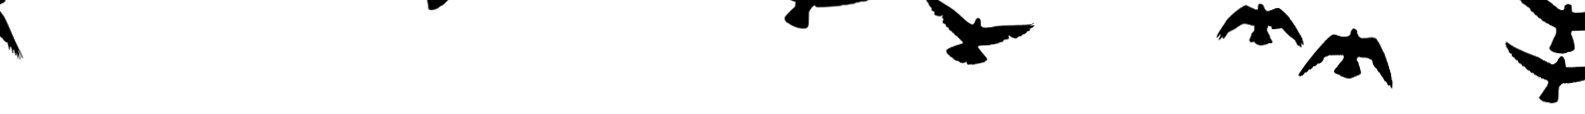
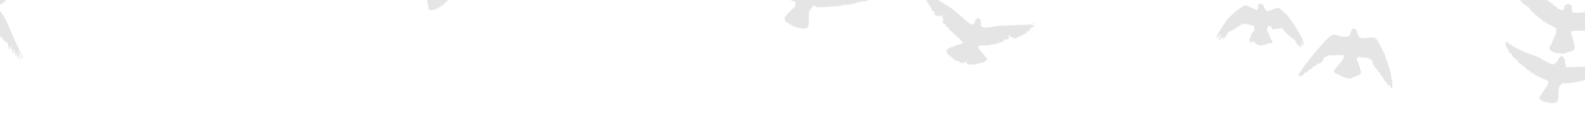
backgrounds

diff --git a/src/app/pages/attractions/attractions.component.html b/src/app/pages/attractions/attractions.component.html
@@ -1,37 +1,39 @@
-<div class="attractions-container sm:col-11 md:col-11 lg:col-10 xl:col-9 mx-auto px-2">
-    <div class="search">
-        <div class="bar flex align-content-center">
-            <input #search class="input flex-grow-1" type="search" (search)="searchAttraction(search.value)" matInput placeholder="Поиск">
-            <button (click)="searchAttraction(search.value)" class="icon-btn ml-1" color="primary"><mat-icon>search</mat-icon></button>
-            <button (click)="addAttraction()" *ngIf="isLoggedIn" class="icon-btn ml-1" color="primary"><mat-icon>add</mat-icon></button>
-        </div>
-        <div class="filters lg:text-xl text-sm">
-            <span>Сортировать:</span>
-            <mat-radio-group [(ngModel)]="sorted" (change)="load()" aria-label="Select an option">
-                <mat-radio-button [value]="0">по дате добавления</mat-radio-button>
-                <mat-radio-button [value]="1">по названию</mat-radio-button>
-            </mat-radio-group>
-            <mat-checkbox *ngIf="isLoggedIn" (change)="filter = !filter; load()" [checked]="filter" class="filter">показать только мои</mat-checkbox>
-        </div>
-    </div>
-    <div class="attractions mb-4 xl:mb-6">
-        <div class="item mb-2 xl:mb-3 h-8rem lg:h-15rem" *ngFor="let item of attractions" [ngStyle]="{background: 'url(' + item.images[0]?.url+ ')'}">
-            <div class="info">
-                <div class="text p-2 mb-2 xl:mb-3">
-                    <span class="name lg:text-2xl text-sm">
-                        {{item.title}}
-                    </span>
-                    <br>
-                    <span class="date lg:text-base text-xs ">
-                        Дата добавления: {{item.created_at | date:"d.MM.y"}}
-                    </span>
-                </div>
-                <button (click)="goToDetails(item.id)" class="details-button underlined" type="button" mat-stroked-button>Подробнее</button>
+<div class="attractions-bg" [ngStyle]="{background: 'url(../../assets/trees-search.png) no-repeat'}">
+    <div class="attractions-container sm:col-11 md:col-11 lg:col-10 xl:col-9 mx-auto px-2">
+        <div class="search">
+            <div class="bar flex align-content-center">
+                <input #search class="input flex-grow-1" type="search" (search)="searchAttraction(search.value)" matInput placeholder="Поиск">
+                <button (click)="searchAttraction(search.value)" class="icon-btn ml-1" color="primary"><mat-icon>search</mat-icon></button>
+                <button (click)="addAttraction()" *ngIf="isLoggedIn" class="icon-btn ml-1" color="primary"><mat-icon>add</mat-icon></button>
             </div>
-
+            <div class="filters lg:text-xl text-sm">
+                <span>Сортировать:</span>
+                <mat-radio-group [(ngModel)]="sorted" (change)="load()" aria-label="Select an option">
+                    <mat-radio-button [value]="0">по дате добавления</mat-radio-button>
+                    <mat-radio-button [value]="1">по названию</mat-radio-button>
+                </mat-radio-group>
+                <mat-checkbox *ngIf="isLoggedIn" (change)="filter = !filter; load()" [checked]="filter" class="filter">показать только мои</mat-checkbox>
+            </div>
         </div>
-        <div class="pagination">    
-            <p-paginator [rows]="meta.per_page" [totalRecords]="meta.total" [pageLinkSize]="5" (onPageChange)="paginate($event)"></p-paginator>
+        <div class="attractions mb-4 xl:mb-6">
+            <div class="item mb-2 xl:mb-3 h-8rem lg:h-15rem" *ngFor="let item of attractions" [ngStyle]="{background: 'url(' + item.images[0]?.url+ ')'}">
+                <div class="info">
+                    <div class="text p-2 mb-2 xl:mb-3">
+                        <span class="name lg:text-2xl text-sm">
+                            {{item.title}}
+                        </span>
+                        <br>
+                        <span class="date lg:text-base text-xs ">
+                            Дата добавления: {{item.created_at | date:"d.MM.y"}}
+                        </span>
+                    </div>
+                    <button (click)="goToDetails(item.id)" class="details-button underlined" type="button" mat-stroked-button>Подробнее</button>
+                </div>
+    
+            </div>
+            <div class="pagination">    
+                <p-paginator [rows]="meta.per_page" [totalRecords]="meta.total" [pageLinkSize]="5" (onPageChange)="paginate($event)"></p-paginator>
+            </div>
         </div>
     </div>
 </div>

diff --git a/src/app/pages/main/main.component.html b/src/app/pages/main/main.component.html
@@ -1,17 +1,19 @@
-<div class="main-container  sm:col-11 md:col-11 lg:col-10 xl:col-9 mx-auto px-2">
-    <div class="map-container">
-        <ymap></ymap>
-    </div>
-    
-    <div class="search-container">
-        <div class="lg:text-4xl md:text-3xl font-semibold">
-            Ищете что-то конкретное?
+<div class="app-main" [ngStyle]="{background: 'url(../../assets/trees-search.png) no-repeat'}">
+    <div class="main-container  sm:col-11 md:col-11 lg:col-10 xl:col-9 mx-auto px-2">
+        <div class="map-container">
+            <ymap></ymap>
         </div>
-        <div class="lg:text-4xl md:text-4xl font-semibold">
-            Воспользуйтесь нашим поиском по всем <br> достопримечательностям.
-        </div>
-        <div class="button-container">
-            <button (click)="goToAttractions()" class="search-button" type="button" mat-stroked-button>ПОИСК</button>
+        
+        <div class="search-container">
+            <div class="lg:text-4xl md:text-3xl font-semibold">
+                Ищете что-то конкретное?
+            </div>
+            <div class="lg:text-4xl md:text-4xl font-semibold">
+                Воспользуйтесь нашим поиском по всем <br> достопримечательностям.
+            </div>
+            <div class="button-container">
+                <button (click)="goToAttractions()" class="search-button" type="button" mat-stroked-button>ПОИСК</button>
+            </div>
         </div>
     </div>
 </div>

diff --git a/src/app/pages/registration/registration.component.scss b/src/app/pages/registration/registration.component.scss
@@ -1,33 +1,41 @@
 :host {
+  background-image: url('../../../assets/trees-other.png');
+  background-repeat: no-repeat;
+  background-size: 100% 100% !important;
+  object-fit: contain;
+  max-height: 100%;
+  max-width: 100%;
+  background-position: bottom !important;
+
+  display: flex;
+  align-items: center;
+  .container {
+    width: 40%;
+    // height: 100px;
+    // background-color: rgb(185, 3, 3);
+    margin: auto;
+  }
+  
+  .registration-form {
     display: flex;
-    align-items: center;
-    .container {
-      width: 40%;
-      // height: 100px;
-      // background-color: rgb(185, 3, 3);
-      margin: auto;
+    flex-direction: column;
+    border: 1px solid rgba(0, 0, 0, 0.12);
+    border-radius: 7px;
+    padding: 16px;
+    mat-form-field {
     }
-    
-    .registration-form {
-      display: flex;
-      flex-direction: column;
-      border: 1px solid rgba(0, 0, 0, 0.12);
-      border-radius: 7px;
-      padding: 16px;
-      mat-form-field {
-      }
-      .register-button {
-        width: 150px;
-        margin: 0 auto;
-      }
-    }
-  
-    .spacer {
-      height: 60px;
-    }
-  
-    .register {
-      width: fit-content;
+    .register-button {
+      width: 150px;
       margin: 0 auto;
     }
   }
+
+  .spacer {
+    height: 60px;
+  }
+
+  .register {
+    width: fit-content;
+    margin: 0 auto;
+  }
+}

diff --git a/src/styles.scss b/src/styles.scss
@@ -292,8 +292,8 @@ $altTheme: (
 }
 
 .p-paginator .p-paginator-pages .p-paginator-page.p-highlight {
-  background: #e2e2e2 !important;
-  border-color: #e2e2e2 !important;
+  background: #ffffff !important;
+  border-color: #ffffff !important;
   color: #292929 !important;
 }
 
@@ -306,6 +306,15 @@ $altTheme: (
 .p-paginator .p-paginator-pages .p-paginator-page:not(.p-highlight):hover {
   background: #eeeeee !important;
   border-color: transparent;
+}
+
+.p-paginator {
+  background: transparent !important;
+  color: #6c757d;
+  border: solid #e9ecef;
+  border-width: 0;
+  padding: 0.5rem 1rem;
+  border-radius: 6px;
 }
 
 body {

diff --git a/src/app/pages/add-attraction/add-attraction.component.ts b/src/app/pages/add-attraction/add-attraction.component.ts
@@ -53,11 +53,6 @@ export class AddAttractionComponent implements OnInit {
     } else {
 
       this.attractionsService.addAttraction(controls.title.value!, controls.description.value!, this.markCoords[0], this.markCoords[1], this.files).subscribe((res: any) => {
-        console.log(res.body)
-        this.messageService.add({
-          severity:'success', 
-          summary:'движ',
-        });
         if (res.body?.attraction_created == 'success' || res.body?.attraction_created == 'wiki_not_found') {
           this.messageService.add({
             severity:'success', 

diff --git a/src/app/pages/login/login.component.html b/src/app/pages/login/login.component.html
@@ -25,7 +25,7 @@
     <button class="logIn-button" type="submit" mat-stroked-button>Войти</button>
   </form>
   <div class="spacer"></div>
-  <div class="register">
-    <span >Еще нет аккаунта? <a href="/registration" >Зарегистрироваться</a> </span>
+  <div class="register text-center">
+    <span class="">Еще нет аккаунта? <a href="/registration" >Зарегистрироваться</a> </span>
   </div>
 </div>

diff --git a/src/app/app.component.html b/src/app/app.component.html
@@ -1,5 +1,5 @@
 <div class="view-container">
-  <mat-toolbar class="menu" color="primary">
+  <mat-toolbar class="menu" [ngStyle]="{background: 'url(../../assets/birds_2.png) no-repeat'}" color="primary">
     <img (click)="navigate('main')" src="/assets/logo.png" alt="">
     <p class="menu-item lg:text-2xl md:text-xl" (click)="navigate('attractions')">Все<br>достопримечательности</p>
     <span class="spacer"></span>

diff --git a/src/app/pages/login/login.component.scss b/src/app/pages/login/login.component.scss
@@ -1,4 +1,12 @@
 :host {
+  background-image: url('../../../assets/trees-other.png');
+  background-repeat: no-repeat;
+  background-size: 100% 100% !important;
+  object-fit: contain;
+  max-height: 100%;
+  max-width: 100%;
+  background-position: bottom !important;
+
   display: flex;
   align-items: center;
   .container {

diff --git a/src/app/pages/attractions/attractions.component.scss b/src/app/pages/attractions/attractions.component.scss
@@ -1,4 +1,12 @@
 :host {
+  .attractions-bg {
+    background-size: 100% 100% !important;
+    background-size: contain !important;
+    object-fit: contain;
+    max-height: 100%;
+    max-width: 100%;
+    background-position: bottom !important;
+  }
   .attractions-container {
     margin-top: 30px;
     .search {

diff --git a/src/app/pages/main/main.component.scss b/src/app/pages/main/main.component.scss
@@ -1,4 +1,12 @@
 :host {
+  .app-main {
+    background-size: 100% 100% !important;
+    background-size: contain !important;
+    object-fit: contain;
+    max-height: 100%;
+    max-width: 100%;
+    background-position: bottom !important;
+  }
   .map-container {
     ::ng-deep #map {
       height: 50vh;

diff --git a/src/app/app.component.scss b/src/app/app.component.scss
@@ -7,6 +7,10 @@
   cursor: pointer;
 }
 
+.menu {
+  object-fit: contain;
+}
+
 mat-toolbar { 
   height: 100px;
   // background-color: aqua;
@@ -49,6 +53,7 @@ img {
 
 
 .footer {
+  background-color: #e5e5e5;
   .footer-container {
     p.text {
       cursor: pointer;

diff --git a/src/app/pages/about/about.component.scss b/src/app/pages/about/about.component.scss
@@ -1,0 +1,9 @@
+:host {
+  background-image: url('../../../assets/trees-other.png');
+  background-repeat: no-repeat;
+  background-size: 100% 100% !important;
+  object-fit: contain;
+  max-height: 100%;
+  max-width: 100%;
+  background-position: bottom !important;
+}
